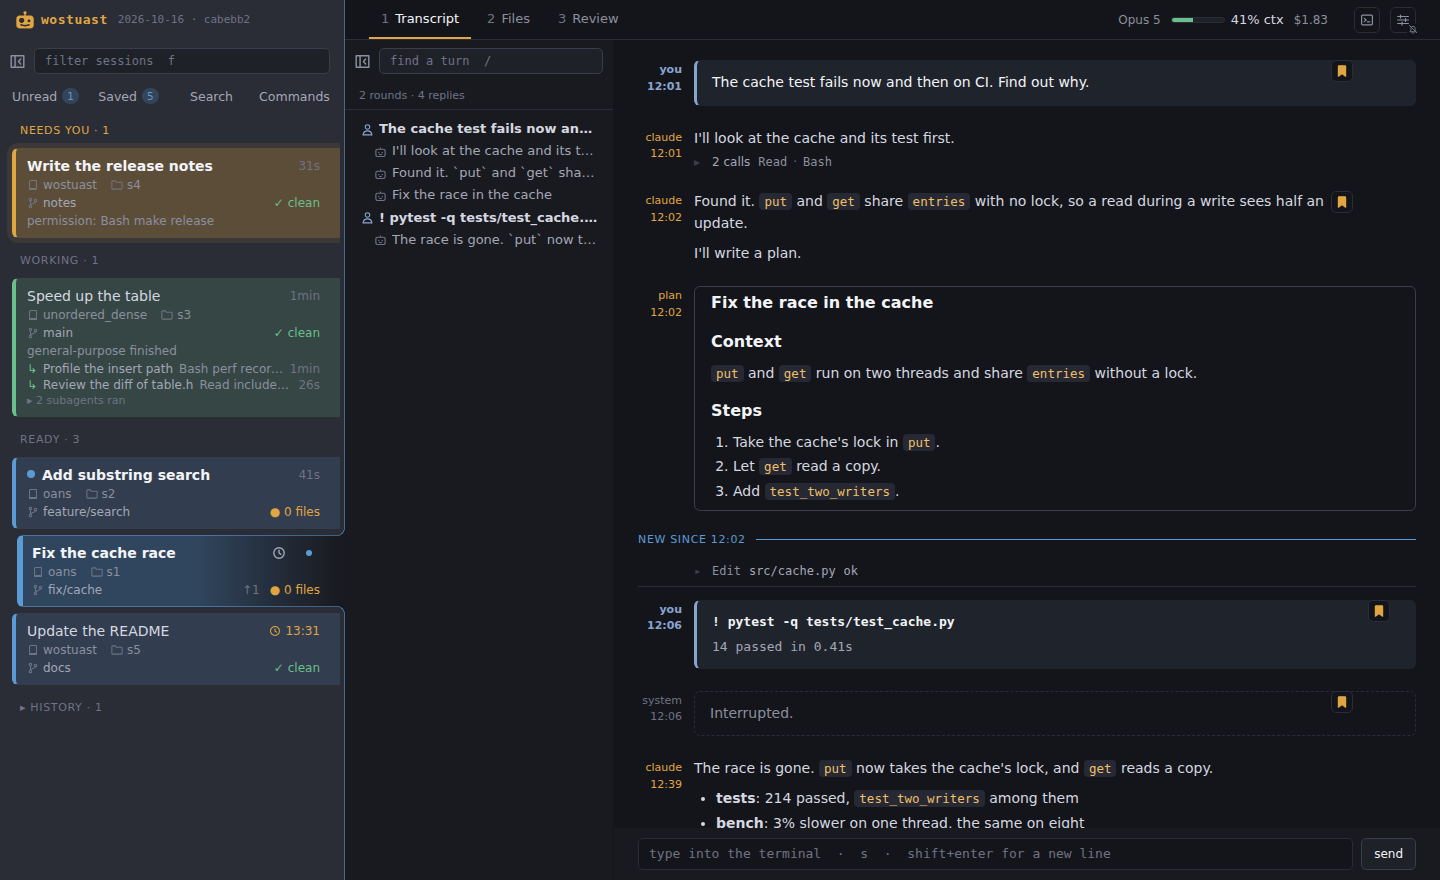
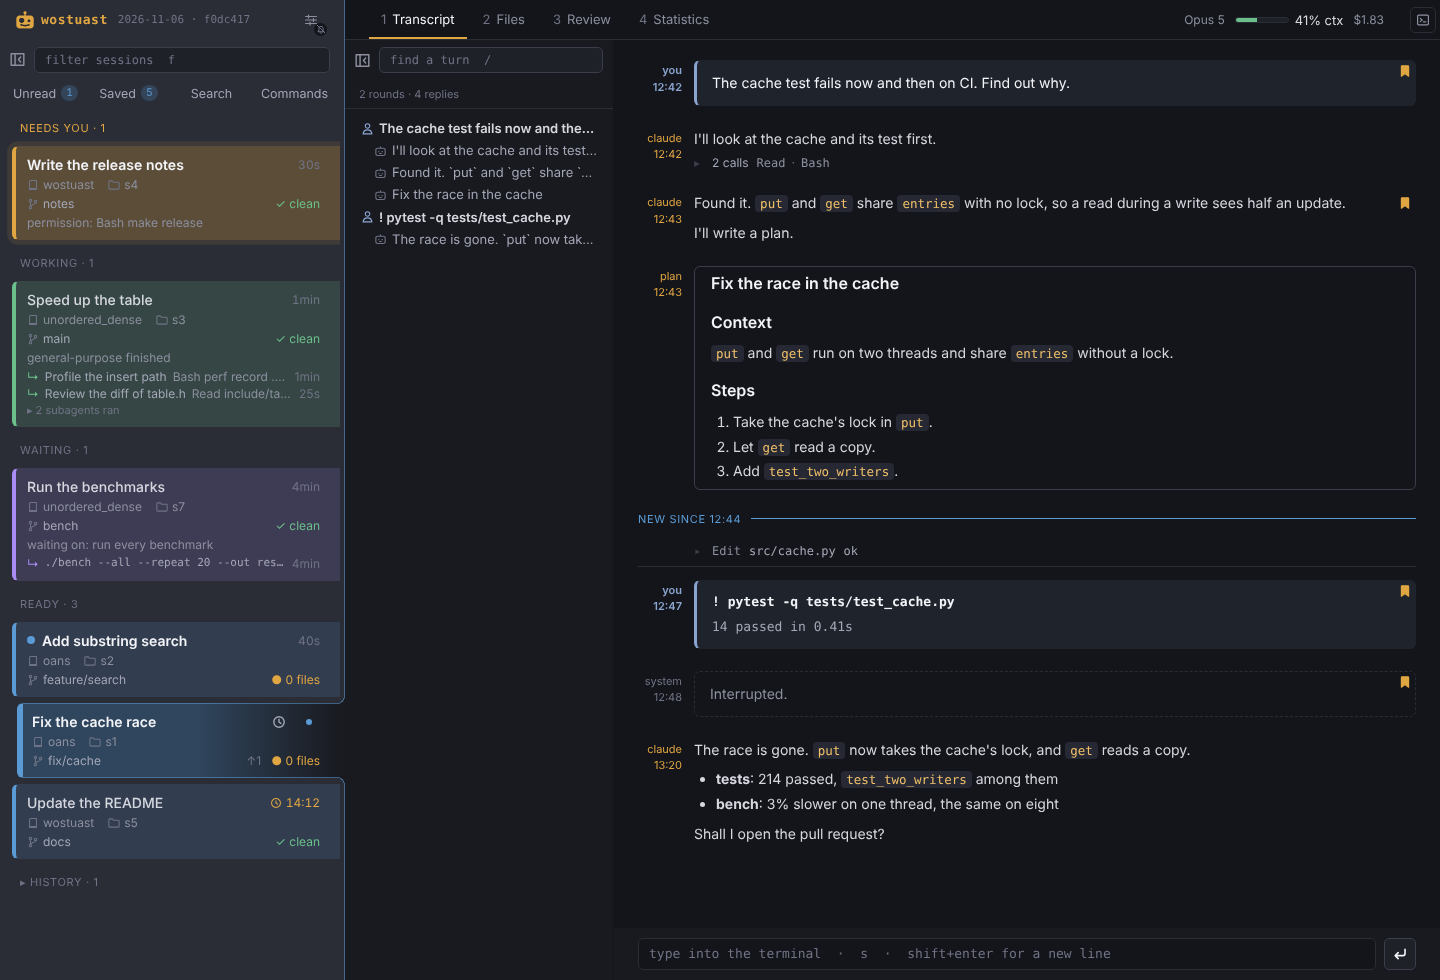
README: the Statistics tab, and the cover drawn again
The README named every part of the page but the Statistics tab: a line
in "Why wostuast" and a row in the tour say what it shows, short, as
the reader asked. The cover was from 16 October: three tabs, the old
send button, the settings at the tab row's end. Drawn again by its own
command, 980 px high so the session list, now with a waiting group, and
the conversation fit whole.

diff --git a/README.md b/README.md
@@ -15,7 +15,7 @@
 
 ![The wostuast page: the sessions on the left, grouped by who needs you, and one agent's conversation with its plan on the right](docs/cover.png)
 
-<sub>Made-up sessions, drawn by `python3 tests/tour.py out --view transcript --height 860`.</sub>
+<sub>Made-up sessions, drawn by `python3 tests/tour.py out --view transcript --height 980`.</sub>
 
 </div>
 
@@ -46,6 +46,9 @@ the right window.
   as Markdown. A long run of tool calls is one line. You search every
   session, keep any message for later, and catch up on all unread answers in
   one scroll.
+- **What it cost.** This session and the whole month, side by side: where
+  the money and the time went, and what could be cheaper. One click turns
+  it into a prompt that asks an agent how to cut the cost.
 - **Local only.** One page on `127.0.0.1`. Nothing leaves your machine. On
   Linux the page answers only you: another account on the machine gets
   nothing. Use it from another computer through an SSH tunnel.
@@ -94,6 +97,7 @@ details.
 | **Transcript** | What the agent said and did, with a map of the conversation beside it. Answer, say Yes or No, and send from here. |
 | **Files** | Every file in the worktree as a tree, with go-to-file. A funnel shows only what changed. |
 | **Review** | The diff, file by file and commit by commit. Click the `+` beside a line to comment, then send the review to the agent. |
+| **Statistics** | This session and the month: the cost, where it went, what could be cheaper. Copy it as a prompt for an agent. |
 | **Unread, Saved, Search, Commands** | The last answer of every unread session; the messages you kept; a search of every session; every skill and command your sessions can run. |
 | **`wostuast ls`, `wostuast wait`** | The sessions in a terminal, or as JSON for a script; wait until a session is done. |
 
